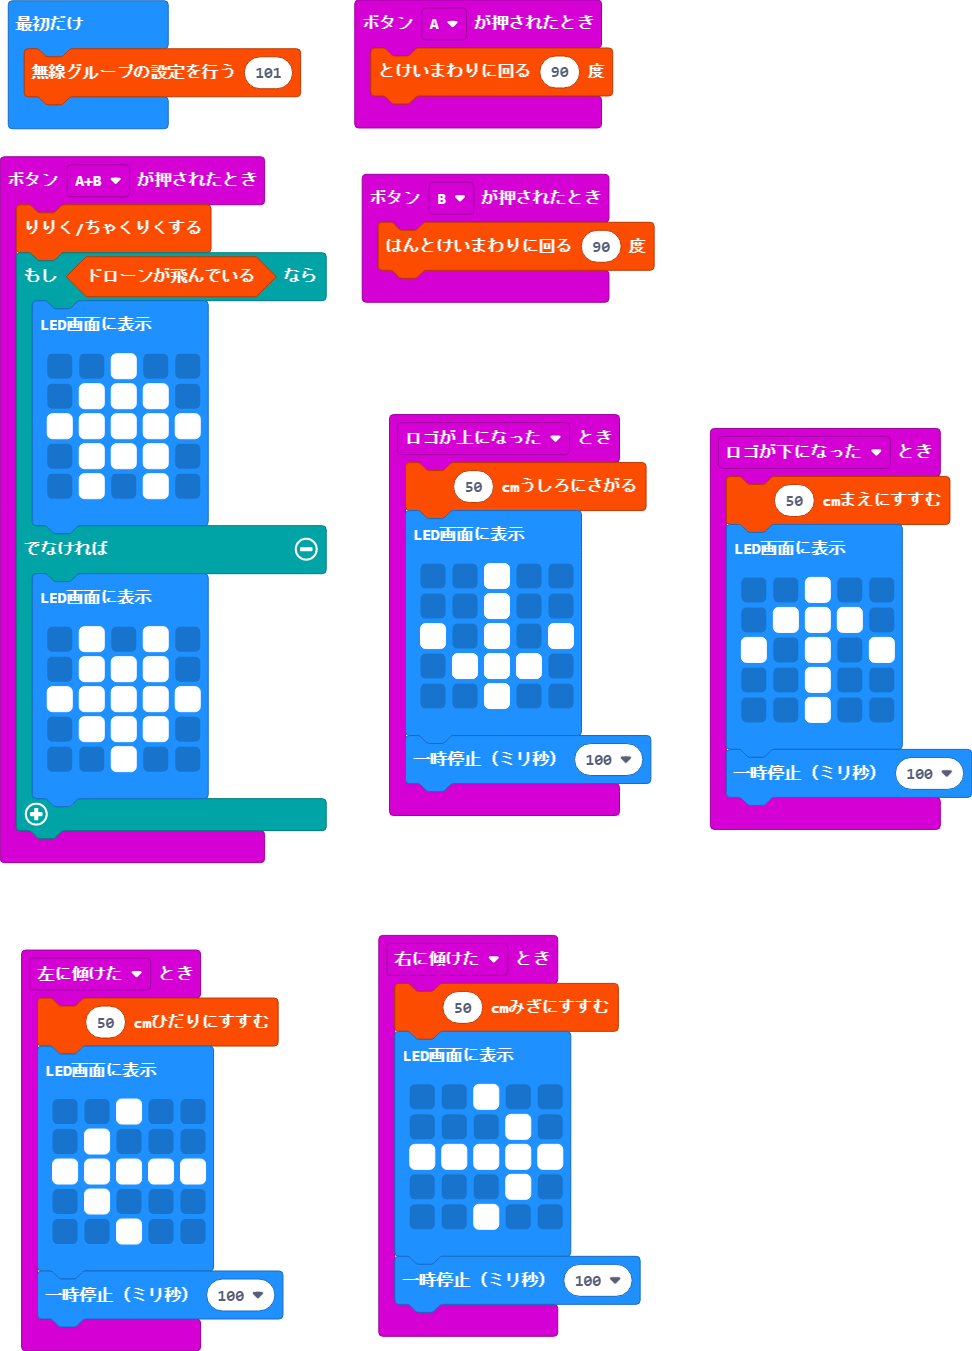
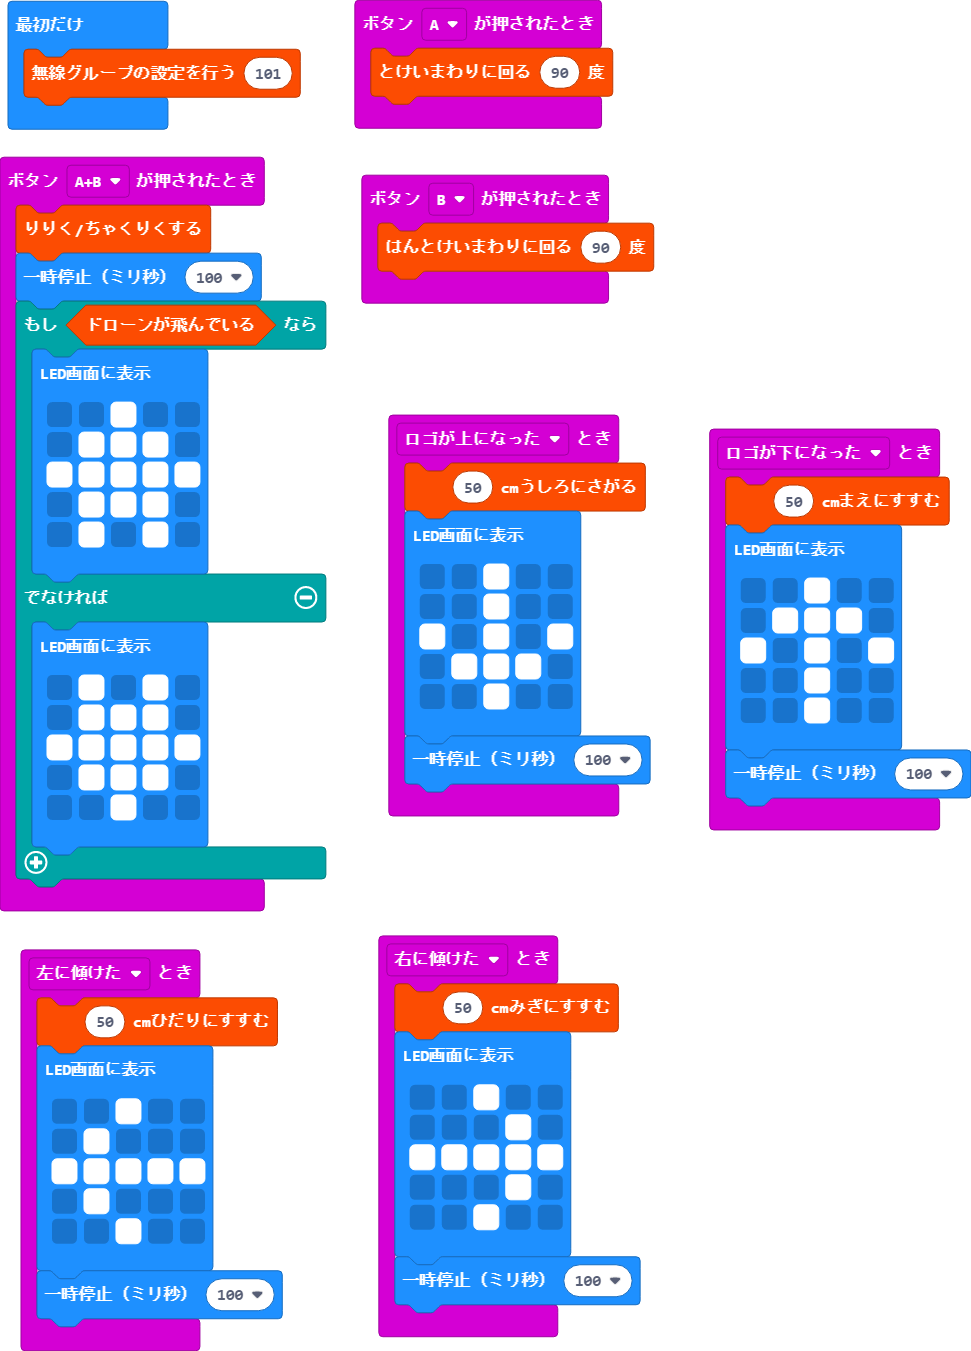
更新 main.blocks, main.ts

diff --git a/main.ts b/main.ts
@@ -47,6 +47,7 @@ input.onGesture(Gesture.LogoDown, function () {
 })
 input.onButtonPressed(Button.AB, function () {
     Tello.fly_or_land()
+    basic.pause(100)
     if (Tello.getflying()) {
         basic.showLeds(`
             . . # . .
